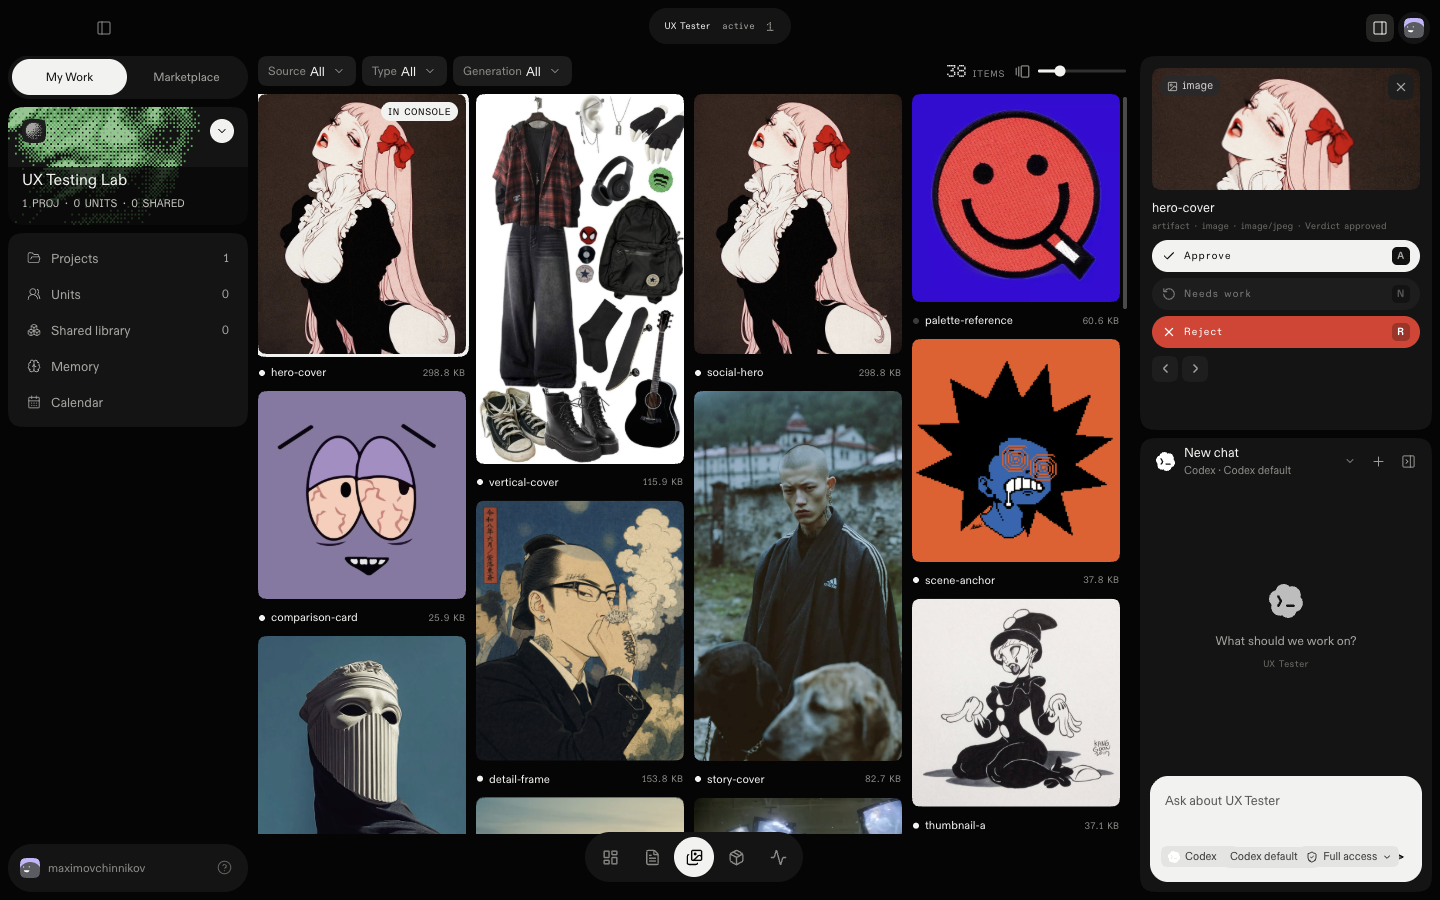
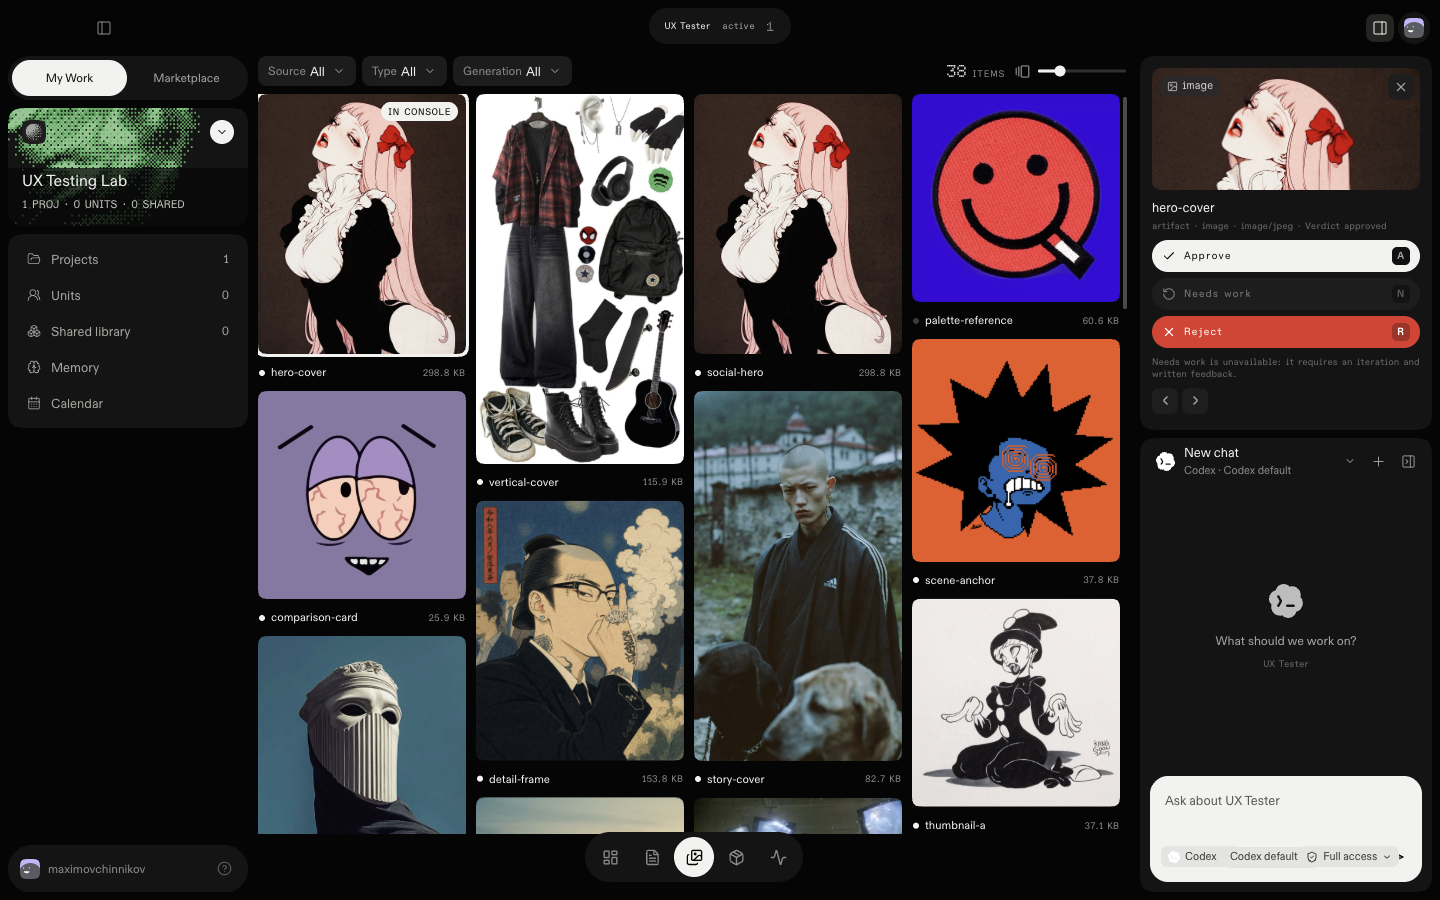
fix: close final Instrument review gaps

diff --git a/tests/design-system.test.ts b/tests/design-system.test.ts
@@ -224,7 +224,7 @@ type GeometryResult = {
   mediaSelectedRing: { light: string; dark: string } | null;
   activityIslandTypography: Record<"count" | "progress" | "busy", { family: string; size: number } | null> | null;
   reviewSurfaceStyles: Record<string, Record<string, string>> | null;
-  instrumentContrast: Record<string, { sidebar: number; chip: number; chipBackground: string }>;
+  instrumentContrast: Record<string, { sidebar: number; sidebarIcon: number; chip: number; chipBackground: string }>;
   reviewConsoleHeight: number | null;
 };
 
@@ -237,7 +237,7 @@ async function chromiumGeometry(markup: { workspace: string } & ProjectMarkup): 
     const activityIsland = renderToStaticMarkup(createElement(ActivityIsland, { state: {
       projectName: "Launch", status: "active", count: 12, busyLabel: "Syncing", progress: 64, alert: null,
     } }));
-    const shell = (screen: string) => `<div class="workbench has-right-panel" style="--sidebar-w:288px;--inspector-w:336px"><aside class="context-sidebar"><nav class="sidebar-nav"><button class="sidebar-nav-row is-selected"><span>Selected</span></button></nav></aside><section class="main-shell"><header class="main-header">${activityIsland}</header><div class="main-content-stage">${screen}</div></section><aside class="utility-right-rail"><section class="review-console"><div class="review-console-preview"></div><div class="review-console-copy"><strong>Review</strong><small>Artifact</small></div><div class="review-console-actions"><button>Approve</button><button disabled>Needs work</button><button>Reject</button></div><div class="review-console-navigation"><button>Previous</button><button>Next</button></div></section><section class="utility-right-panel"><div class="agent-composer"><button class="agent-menu-trigger">Model</button></div></section></aside></div>`;
+    const shell = (screen: string) => `<div class="workbench has-right-panel" style="--sidebar-w:288px;--inspector-w:336px"><aside class="context-sidebar"><nav class="sidebar-nav"><button class="sidebar-nav-row is-selected"><svg viewBox="0 0 24 24"><path d="M2 12h20"/></svg><span>Selected</span></button></nav></aside><section class="main-shell"><header class="main-header">${activityIsland}</header><div class="main-content-stage">${screen}</div></section><aside class="utility-right-rail"><section class="review-console"><div class="review-console-preview"></div><div class="review-console-copy"><strong>Review</strong><small>Artifact</small></div><div class="review-console-actions"><button>Approve</button><button disabled>Needs work</button><button>Reject</button></div><div class="review-console-navigation"><button>Previous</button><button>Next</button></div></section><section class="utility-right-panel"><div class="agent-composer"><button class="agent-menu-trigger">Model</button></div></section></aside></div>`;
     const templates = Object.entries(markup).map(([name, value]) => `<template id="${name}">${shell(value)}</template>`).join("");
     writeFileSync(join(directory, "layout.html"), `<!doctype html><html><head>${links}</head><body><div id="root"></div>${templates}</body></html>`);
     writeFileSync(join(directory, "package.json"), JSON.stringify({ main: "main.cjs" }));
@@ -431,8 +431,9 @@ async function chromiumGeometry(markup: { workspace: string } & ProjectMarkup): 
               const instrumentContrast = Object.fromEntries(["light", "dark"].map((theme) => {
                 document.documentElement.dataset.theme = theme;
                 const sidebar = getComputedStyle(root.querySelector(".sidebar-nav-row.is-selected"));
+                const sidebarIcon = getComputedStyle(root.querySelector(".sidebar-nav-row.is-selected svg"));
                 const chip = getComputedStyle(root.querySelector(".agent-composer .agent-menu-trigger"));
-                return [theme, { sidebar: contrast(sidebar.color, sidebar.backgroundColor), chip: contrast(chip.color, chip.backgroundColor), chipBackground: chip.backgroundColor }];
+                return [theme, { sidebar: contrast(sidebar.color, sidebar.backgroundColor), sidebarIcon: contrast(sidebarIcon.color, sidebar.backgroundColor), chip: contrast(chip.color, chip.backgroundColor), chipBackground: chip.backgroundColor }];
               }));
               const reviewConsoleHeight = root.querySelector(".review-console")?.getBoundingClientRect().height ?? null;
               delete document.documentElement.dataset.theme;
@@ -592,6 +593,8 @@ describe("design system contract", () => {
     const instrument = results.find(({ screen, width }) => screen === "media" && width === 1360);
     expect(instrument?.instrumentContrast.light.sidebar).toBeGreaterThanOrEqual(4.5);
     expect(instrument?.instrumentContrast.dark.sidebar).toBeGreaterThanOrEqual(4.5);
+    expect(instrument?.instrumentContrast.light.sidebarIcon).toBeGreaterThanOrEqual(4.5);
+    expect(instrument?.instrumentContrast.dark.sidebarIcon).toBeGreaterThanOrEqual(4.5);
     expect(instrument?.instrumentContrast.light.chip).toBeGreaterThanOrEqual(4.5);
     expect(instrument?.instrumentContrast.dark.chip).toBeGreaterThanOrEqual(4.5);
     expect(instrument?.instrumentContrast.dark.chipBackground).toBe("rgb(228, 228, 226)");

diff --git a/tests/settings-profile-integration.test.tsx b/tests/settings-profile-integration.test.tsx
@@ -1,0 +1,70 @@
+import { act, type ReactNode } from "react";
+import { describe, expect, test, vi } from "vitest";
+
+import { App } from "../src/App";
+import { createReactHost } from "./react-host";
+
+vi.mock("motion/react", async (importOriginal) => ({
+  ...await importOriginal<typeof import("motion/react")>(),
+  AnimatePresence: ({ children }: { children: ReactNode }) => children,
+}));
+
+describe("Settings profile integration", () => {
+  test("restores focus to the persistent user-pill trigger after Settings closes", async () => {
+    const host = createReactHost();
+    const storage = new Map<string, string>([[
+      "ralphy-media-workbench-v1",
+      JSON.stringify({ rootPath: "mock-store", workspaceId: "launch-studio" }),
+    ]]);
+    const localStorage = {
+      getItem: (key: string) => storage.get(key) ?? null,
+      setItem: (key: string, value: string) => storage.set(key, value),
+      removeItem: (key: string) => storage.delete(key),
+    };
+    const previousLocalStorage = Object.getOwnPropertyDescriptor(globalThis, "localStorage");
+    Object.defineProperty(globalThis, "localStorage", { configurable: true, value: localStorage });
+    Object.assign(document.documentElement, { dataset: {} });
+    Object.assign(window, {
+      innerWidth: 1280,
+      innerHeight: 800,
+      localStorage,
+      matchMedia: () => ({ matches: true, addEventListener: () => undefined, removeEventListener: () => undefined }),
+    });
+    const { createRoot } = await import("react-dom/client");
+    const root = createRoot(host.container as unknown as Element);
+
+    try {
+      await act(async () => { root.render(<App />); await Promise.resolve(); });
+      await act(async () => { await new Promise((resolve) => setTimeout(resolve, 2_000)); });
+      const trigger = host.container.querySelector<HTMLButtonElement>(".profile-menu-trigger")!;
+      await act(async () => { trigger.dispatchEvent(new Event("click", { bubbles: true })); await new Promise((resolve) => window.requestAnimationFrame(resolve)); });
+      const settings = [...document.body.querySelectorAll<HTMLButtonElement>('[role="menuitem"]')]
+        .find((button) => button.textContent?.includes("Settings"))!;
+      settings.focus();
+      expect(document.activeElement).toBe(settings);
+
+      await act(async () => { settings.dispatchEvent(new Event("click", { bubbles: true })); await Promise.resolve(); });
+      await act(async () => {
+        for (let attempt = 0; attempt < 100 && !document.body.querySelector(".settings-screen"); attempt += 1) {
+          await new Promise((resolve) => setTimeout(resolve, 10));
+        }
+      });
+      const back = [...document.body.querySelectorAll<HTMLButtonElement>("button")]
+        .find((button) => button.textContent?.includes("Back to app"))!;
+      await act(async () => back.dispatchEvent(new Event("click", { bubbles: true })));
+      await act(async () => {
+        for (let attempt = 0; attempt < 200 && document.body.querySelector(".settings-screen"); attempt += 1) {
+          await new Promise((resolve) => setTimeout(resolve, 10));
+        }
+      });
+
+      expect(document.body.querySelector(".settings-screen")).toBeNull();
+      expect(document.activeElement).toBe(trigger);
+    } finally {
+      await act(async () => root.unmount());
+      if (previousLocalStorage) Object.defineProperty(globalThis, "localStorage", previousLocalStorage);
+      else delete (globalThis as { localStorage?: unknown }).localStorage;
+      host.restore();
+    }
+  }, 10_000);
+});

diff --git a/src/components/ReviewConsole.tsx b/src/components/ReviewConsole.tsx
@@ -1,5 +1,5 @@
 import { Check, ChevronLeft, ChevronRight, RotateCcw, X } from "lucide-react";
-import { useEffect, useRef, useState } from "react";
+import { useEffect, useId, useRef, useState } from "react";
 import type { ArtifactMediaCardDto, MediaCardDto } from "../../electron/ralphy/types";
 import type { ProjectMediaReviewVerdict, ProjectReference } from "../lib/ipc";
 import { bridge } from "../lib/ipc";
@@ -40,6 +40,7 @@ function isArtifact(card: MediaCardDto): card is ArtifactMediaCardDto {
 export function ReviewConsole({ context }: { context: ProjectShellContext }) {
   const [busy, setBusy] = useState<ProjectMediaReviewVerdict | null>(null);
   const [feedback, setFeedback] = useState<{ error: boolean; message: string } | null>(null);
+  const needsWorkReasonId = useId();
   const request = useRef(0);
   const surface = useRef<HTMLElement>(null);
   const card = context.selectedMedia;
@@ -79,12 +80,12 @@ export function ReviewConsole({ context }: { context: ProjectShellContext }) {
         const style = window.getComputedStyle(element);
         if (style.display === "none" || style.visibility === "hidden") return;
       }
+      if (editableTarget(event)) return;
       if (event.key === "Escape") {
         event.preventDefault();
         context.clearMediaSelection();
         return;
       }
-      if (editableTarget(event)) return;
       const verdict = ({ a: "approved", r: "rejected" } as const)[event.key.toLocaleLowerCase() as "a" | "r"];
       if (verdict) {
         event.preventDefault();
@@ -114,9 +115,10 @@ export function ReviewConsole({ context }: { context: ProjectShellContext }) {
     </div>
     <div className="review-console-actions" aria-label="Review verdict">
       <button type="button" disabled={!reviewable || busy !== null} onClick={() => { void review("approved"); }}><Check size={14} aria-hidden="true" />Approve <kbd>A</kbd></button>
-      <button type="button" disabled title="Needs work requires an iteration feedback workflow, which is not available yet."><RotateCcw size={14} aria-hidden="true" />Needs work <kbd>N</kbd></button>
+      <button type="button" disabled aria-describedby={needsWorkReasonId}><RotateCcw size={14} aria-hidden="true" />Needs work <kbd>N</kbd></button>
       <button type="button" disabled={!reviewable || busy !== null} onClick={() => { void review("rejected"); }}><X size={14} aria-hidden="true" />Reject <kbd>R</kbd></button>
     </div>
+    <p className="review-console-help" id={needsWorkReasonId}>Needs work is unavailable: it requires an iteration and written feedback.</p>
     <div className="review-console-navigation">
       <button type="button" aria-label="Previous media" disabled={!context.canSelectPrevious} onClick={() => context.selectAdjacentMedia(-1)}>
         <ChevronLeft size={15} aria-hidden="true" />

diff --git a/tests/project-media-presentation.test.tsx b/tests/project-media-presentation.test.tsx
@@ -137,7 +137,9 @@ describe("Project media presentation", () => {
       expect(reviewSelectedMedia).toHaveBeenCalledTimes(2);
       const needsWork = host.container.findAll((node) => node.tagName === "BUTTON" && node.textContent.includes("Needs work"))[0]!;
       expect(needsWork.disabled).toBe(true);
-      expect(needsWork.getAttribute("title")).toContain("feedback workflow");
+      const needsWorkReason = host.container.querySelector(`#${needsWork.getAttribute("aria-describedby")}`)!;
+      expect(needsWorkReason.textContent).toContain("iteration and written feedback");
+      expect(getComputedStyle(needsWorkReason as unknown as HTMLElement).display).not.toBe("none");
       await act(async () => { keydown(globalThis.window, "n"); await Promise.resolve(); });
       expect(reviewSelectedMedia).toHaveBeenCalledTimes(2);
 
@@ -147,8 +149,10 @@ describe("Project media presentation", () => {
         host.container.appendChild(field);
         field.focus();
         await act(async () => { keydown(globalThis.window, "a"); await Promise.resolve(); });
+        await act(async () => { keydown(globalThis.window, "Escape"); await Promise.resolve(); });
       }
       expect(reviewSelectedMedia).toHaveBeenCalledTimes(2);
+      expect(clearMediaSelection).not.toHaveBeenCalled();
 
       const blocked = new Event("keydown", { bubbles: true, cancelable: true });
       Object.defineProperty(blocked, "key", { value: "a" });
@@ -176,6 +180,7 @@ describe("Project media presentation", () => {
       await act(async () => { button(host.container, "Next media").dispatchEvent(new Event("click", { bubbles: true })); });
       expect(selectAdjacentMedia.mock.calls).toEqual([[-1], [1]]);
 
+      button(host.container, "Previous media").focus();
       await act(async () => { keydown(globalThis.window, "Escape"); await Promise.resolve(); });
       expect(clearMediaSelection).toHaveBeenCalledOnce();
     } finally {

diff --git a/electron/ralphy/project-reader.ts b/electron/ralphy/project-reader.ts
@@ -810,17 +810,19 @@ export function registerProjectMediaIpc<Root>({
         assertTrustedSender(event, getWindow());
         assertRoot(root);
       };
+      const client = session.client;
       assertCurrent();
       const request: Request = async <Method extends BridgeMethod>(
         method: Method,
         params: ParamsFor<Method>,
       ): Promise<ResultFor<Method>> => {
         assertCurrent();
-        const result = await session.client.request(method, params);
+        const result = await client.request(method, params);
         assertCurrent();
         return result;
       };
-      const result = await listener(createProjectReader({ request }), root, assertCurrent, ...args);
+      const endSession = (sessionId: string) => client.request("session.end", { sessionId });
+      const result = await listener(createProjectReader({ request, endSession }), root, assertCurrent, ...args);
       assertCurrent();
       return result;
     })
@@ -990,7 +992,12 @@ export function registerProjectMediaIpc<Root>({
   }));
 }
 
-export function createProjectReader({ request, mint }: { request: Request; mint?: Mint }) {
+export function createProjectReader({ request, mint, endSession }: {
+  request: Request;
+  mint?: Mint;
+  endSession?: (sessionId: string) => Promise<unknown>;
+}) {
+  const closeSession = endSession ?? ((sessionId: string) => request("session.end", { sessionId }));
   const documentDetails = new Map<string, DocumentDetailDto>();
   async function loadProjectCompositionPage(
     project: ProjectRef,
@@ -1380,7 +1387,7 @@ export function createProjectReader({ request, mint }: { request: Request; mint?
         throw error;
       } finally {
         try {
-          await request("session.end", { sessionId: started.id });
+          await closeSession(started.id);
         } catch (error) {
           if (!failed) throw error;
         }

diff --git a/tests/bundled-core-review.test.ts b/tests/bundled-core-review.test.ts
@@ -40,6 +40,10 @@ describe("bundled Core media review integration", () => {
       expect(selected.status, selected.stderr).toBe(0);
       const [workspaceId, projectId, artifactId, revisionId] = selected.stdout.trim().split("|");
       expect([workspaceId, projectId, artifactId, revisionId].every(Boolean)).toBe(true);
+      const openSessionCount = () => Number(spawnSync("sqlite3", [destination,
+        "SELECT COUNT(*) FROM agent_sessions WHERE agent = 'desktop' AND ended_at IS NULL;",
+      ], { encoding: "utf8" }).stdout.trim());
+      const openSessionsBefore = openSessionCount();
 
       const reader = createProjectReader({ request: client.request.bind(client) });
       let expectedRevisionId = revisionId!;
@@ -54,6 +58,7 @@ describe("bundled Core media review integration", () => {
         expect(reviewed.selectedState).toBe(verdict);
         expectedRevisionId = reviewed.selectedRevisionId!;
       }
+      expect(openSessionCount()).toBe(openSessionsBefore);
     } catch (error) {
       throw new Error(`${stage}: ${error instanceof Error ? error.message : String(error)}`, { cause: error });
     } finally {

diff --git a/src/components/ProfileMenu.tsx b/src/components/ProfileMenu.tsx
@@ -123,7 +123,7 @@ export function ProfileMenu({
                     <ProfileAvatar rootPath={rootPath} size={20} />
                     <strong>{identity}</strong>
                   </div>
-                  <button type="button" role="menuitem" onClick={() => { setOpen(null); onOpenSettings(); }}>
+                  <button type="button" role="menuitem" onClick={() => { profileTriggerRef.current?.focus(); setOpen(null); onOpenSettings(); }}>
                     <Settings size={15} strokeWidth={1.5} />
                     <span>Settings</span>
                   </button>

diff --git a/src/styles/workbench.css b/src/styles/workbench.css
@@ -7471,6 +7471,7 @@ button.memory-primary:hover { background: #8d89df; color: #111; }
 .sidebar-nav-row small { color: inherit; font: 12px var(--font-mono); }
 .sidebar-nav-row:hover { background: var(--widget-dark-hover); color: var(--ink-on-dark); }
 button.sidebar-nav-row.is-selected { background: var(--ink-on-dark); color: #111111; }
+button.sidebar-nav-row.is-selected svg { color: inherit; }
 .marketplace-sidebar-note { margin: 8px 11px 4px; color: var(--ink-on-dark-muted); font: 9.5px var(--font-mono); letter-spacing: .08em; }
 .sidebar-footer { padding: 0; }
 

diff --git a/tests/ipc-security.test.ts b/tests/ipc-security.test.ts
@@ -478,8 +478,10 @@ describe("Electron IPC security", () => {
     }
     mode = "stale";
     epoch = 1;
+    request.mockClear();
     await expect(review(trusted, project, "artifact-1", "revision-1", "approved"))
       .resolves.toMatchObject({ ok: false });
+    expect(request).toHaveBeenCalledWith("session.end", { sessionId: "review-session" });
   });
 
   test("registered Workspace overview IPC validates, trusts, and rejects stale roots", async () => {

diff --git a/docs/visual-review/instrument-v11/README.md b/docs/visual-review/instrument-v11/README.md
@@ -18,7 +18,7 @@ renderer bitmap and therefore do not appear in these screenshots.
 | Command | Exit | Result |
 | --- | ---: | --- |
 | `bun run typecheck` | 0 | Passed (`tsc --noEmit`). |
-| `bun run test` | 0 | 502 passed, 1 skipped across 56 files. The Calendar assertion now controls the clock and is deterministic. |
+| `bun run test` | 0 | 503 passed, 1 skipped across 57 files. The Calendar assertion now controls the clock and is deterministic. |
 | `bun run build` | 0 | Renderer and Electron bundles built. Vite emitted its existing advisory for a chunk larger than 500 kB. |
 | `bun run smoke` | 1 | The unqualified development smoke selected global `ralphy` 0.2.0, which exits with `error: unknown option '--stdio'`; the harness then exits 1 after `pty:prepare` without surfacing the child stderr. |
 | `RALPHY_BIN='.../release/Ralphy Media.app/Contents/Resources/bin/ralphy' bun run smoke` | 0 | Diagnostic rerun passed with bundled Core 0.3.0: `Electron smoke passed`. |
@@ -28,7 +28,9 @@ installed legacy CLI, not an Instrument regression. The current bundled Core
 satisfies the Desktop bridge contract. A focused bundled-Core integration test
 also copies the live SQLite store to a temporary root, then exercises
 `createProjectReader().reviewMedia` through approve and reject; each call creates
-and ends a main-owned Core Session. The source store is never mutated.
+and ends a main-owned Core Session. Cleanup uses the originating Core client
+even if the renderer root becomes stale, and the integration compares open
+Session counts before and after review. The source store is never mutated.
 
 ## Icon decision
 
@@ -84,7 +86,8 @@ Matches observed in both themes:
   project dock report zero borders, `box-shadow: none`, and
   `backdrop-filter: none`.
 - Computed contrast checks cover the selected sidebar row and invariant white
-  composer chips in light and dark themes; all text ratios are at least 4.5:1.
+  composer chips in light and dark themes; the selected row's SVG icon is also
+  sampled independently. All sampled ratios are at least 4.5:1.
 - Review is 374 px high at 1440×900 and leaves 454 px for chat, matching the
   reference's compact review/chat balance. Close overlays the preview, verdict
   is folded into metadata, and navigation follows the verdict actions.
@@ -102,9 +105,10 @@ Concrete differences from the reference:
 - The handoff toolbar includes an explicit rows/columns/gallery control cluster;
   the production toolbar exposes the current density slider/control only.
 - The handoff enables Needs work. Production disables both the action and `N`
-  shortcut with an accessible explanation because Core requires an iteration
-  and non-empty feedback, and this wave intentionally does not invent that
-  workflow. Approve and Reject are real Core-backed actions.
+  shortcut because Core requires an iteration and non-empty feedback, and this
+  wave intentionally does not invent that workflow. A persistent on-surface
+  explanation is associated with the disabled action through
+  `aria-describedby`. Approve and Reject are real Core-backed actions.
 - File order, selected item, status totals, captions, and preview ratios differ
   because the captures use live project data rather than prototype samples.
 
@@ -113,12 +117,14 @@ Concrete differences from the reference:
 - Marketplace is a true top-level shell: its rail shows Discover/WIP, working
   Local Models, and the user pill without My Work counts or project navigation.
   The island reports `Marketplace · Catalog preview`, while My Work route and
-  project selection remain preserved for return.
+  project selection remain preserved for return. The Marketplace screenshot is
+  captured only after the outgoing work chat rail has detached.
 - The island is keyboard-operable and opens a compact disclosure containing the
   same real status/project/count/busy data, avoiding silent truncation without
   inventing telemetry.
 - Settings is reachable through `Command-,` and the user-pill Settings menu
   item. Its modal has initial focus, a focus trap, Escape close, opener restore,
-  and an inert workbench background.
+  and an inert workbench background. The profile path restores focus to the
+  persistent user-pill trigger rather than the transient menu item.
 - The built preview is left open at 1440×900, dark Media, with a live approved
   item selected in Review.
